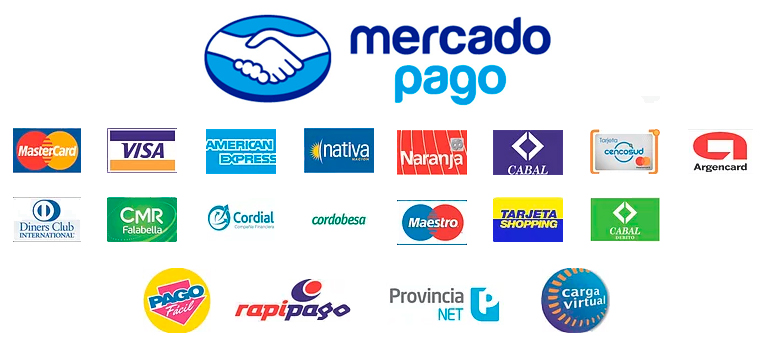
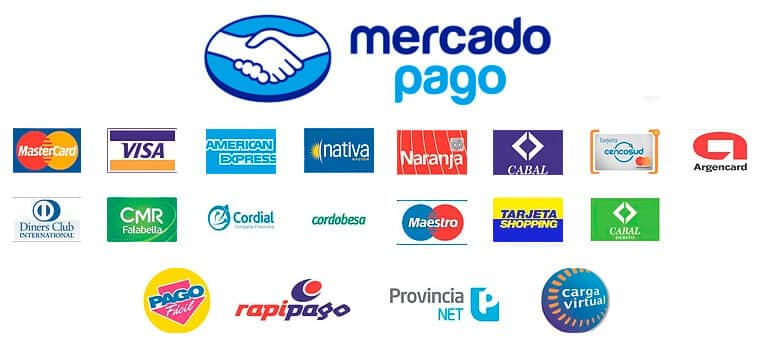
reducida img portada index prueba

diff --git a/css/main.css b/css/main.css
@@ -67,7 +67,7 @@ nav ul a #link__naranja:hover {
       -ms-flex-align: center;
           align-items: center;
   background-position: center;
-  background-image: url("../images/portada_index.jpg");
+  background-image: url("../images/small-images/portada_index_prueba");
   background-size: cover;
   background-color: orange;
   height: 500px;
@@ -182,57 +182,6 @@ h1 {
   position: absolute;
 }
 
-.boton__menu, #btn-link-preguntas, #btn__menu__main, .btn__secundario, .btn__comprar, .btn__seguir {
-  height: 100px;
-  width: 500px;
-  margin-left: 5rem;
-  font-size: 3rem;
-  font-family: "Roboto";
-  color: #ffffff;
-  background-color: #3a3838;
-}
-
-#btn-link-preguntas {
-  width: 230px;
-  height: 50px;
-  font-size: 2rem;
-  text-align: center;
-  -ms-flex-line-pack: center;
-      align-content: center;
-}
-
-#btn__menu__main {
-  width: 30%;
-  padding: 5rem;
-  padding-top: 2rem;
-  padding-bottom: 3rem;
-  margin-left: 35%;
-}
-
-
-.btn__secundario,
-.btn__comprar,
-.btn__seguir, .btn__comprar {
-  margin-left: 1rem;
-  display: -webkit-box;
-  display: -ms-flexbox;
-  display: flex;
-  -webkit-box-pack: center;
-      -ms-flex-pack: center;
-          justify-content: center;
-  width: 100%;
-  margin-top: 2rem;
-}
-
-.btn__comprar {
-  height: 20%;
-}
-
-.btn__seguir {
-  width: 50%;
-  margin-left: 25%;
-}
-
 /*..............PREGUNTAS FRECUENTES................*/
 .fuente__preguntas {
   color: black;
@@ -240,7 +189,7 @@ h1 {
   font-size: 3.5rem;
 }
 
-.boton__menu, #btn-link-preguntas, #btn__menu__main, .btn__secundario, .btn__comprar, .btn__seguir {
+.boton__menu, #btn__menu__main, #btn-link-preguntas, .btn__secundario, .btn__comprar, .btn__seguir {
   height: 100px;
   width: 500px;
   margin-left: 5rem;

diff --git a/_portadas.scss b/_portadas.scss
@@ -11,7 +11,7 @@
     flex-direction: column;
     align-items: center;
     background-position: center;
-    background-image: url("../images/portada_index.jpg");
+    background-image: url("../images/small-images/portada_index_prueba");
     background-size: cover;
     background-color: orange;
     height: 500px;
